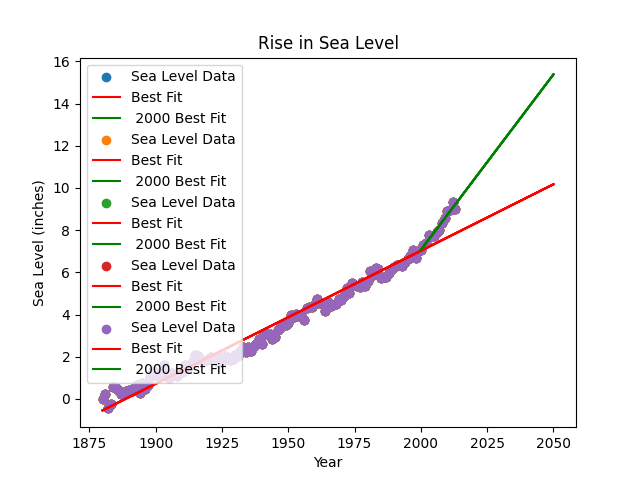
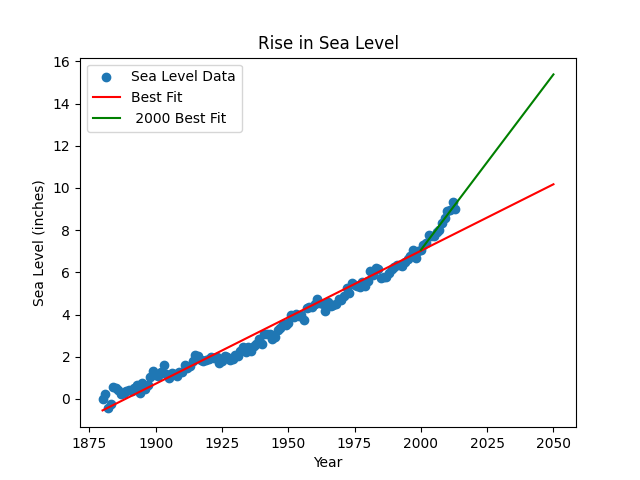
nice

diff --git a/Data Analysis with Python/Sea Level Predictor/sea_level_predictor.py b/Data Analysis with Python/Sea Level Predictor/sea_level_predictor.py
@@ -10,6 +10,7 @@ def draw_plot():
     y = df['CSIRO Adjusted Sea Level']
 
     # Create scatter plot
+    plt.figure()
     plt.scatter(x, y, label='Sea Level Data')
     
 
